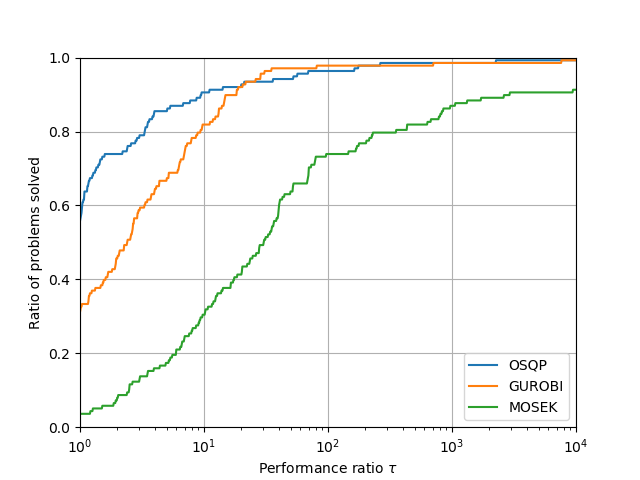
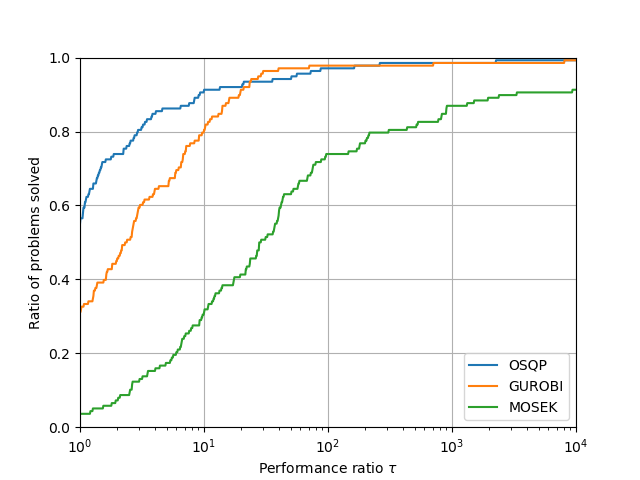
Removed polish from geometric means

diff --git a/utils/benchmark.py b/utils/benchmark.py
@@ -139,6 +139,12 @@ def compute_shifted_geometric_means(solvers, problems_type):
     status = {}
     g_mean = {}
 
+    # Remove OSQP polish solver
+    solvers = solvers.copy()
+    for s in solvers:
+        if "polish" in s:
+            solvers.remove(s)
+
     # Get time and status
     for solver in solvers:
         path = os.path.join('.', 'results', problems_type,
@@ -213,6 +219,12 @@ def compute_failure_rates(solvers, problems_type):
     Compute and show failure rates
     """
     failure_rates = {}
+
+    # Remove OSQP polish solver
+    solvers = solvers.copy()
+    for s in solvers:
+        if "polish" in s:
+            solvers.remove(s)
 
     # Check if results file already exists
     failure_rates_file = os.path.join(".", "results", problems_type, "failure_rates.csv")
